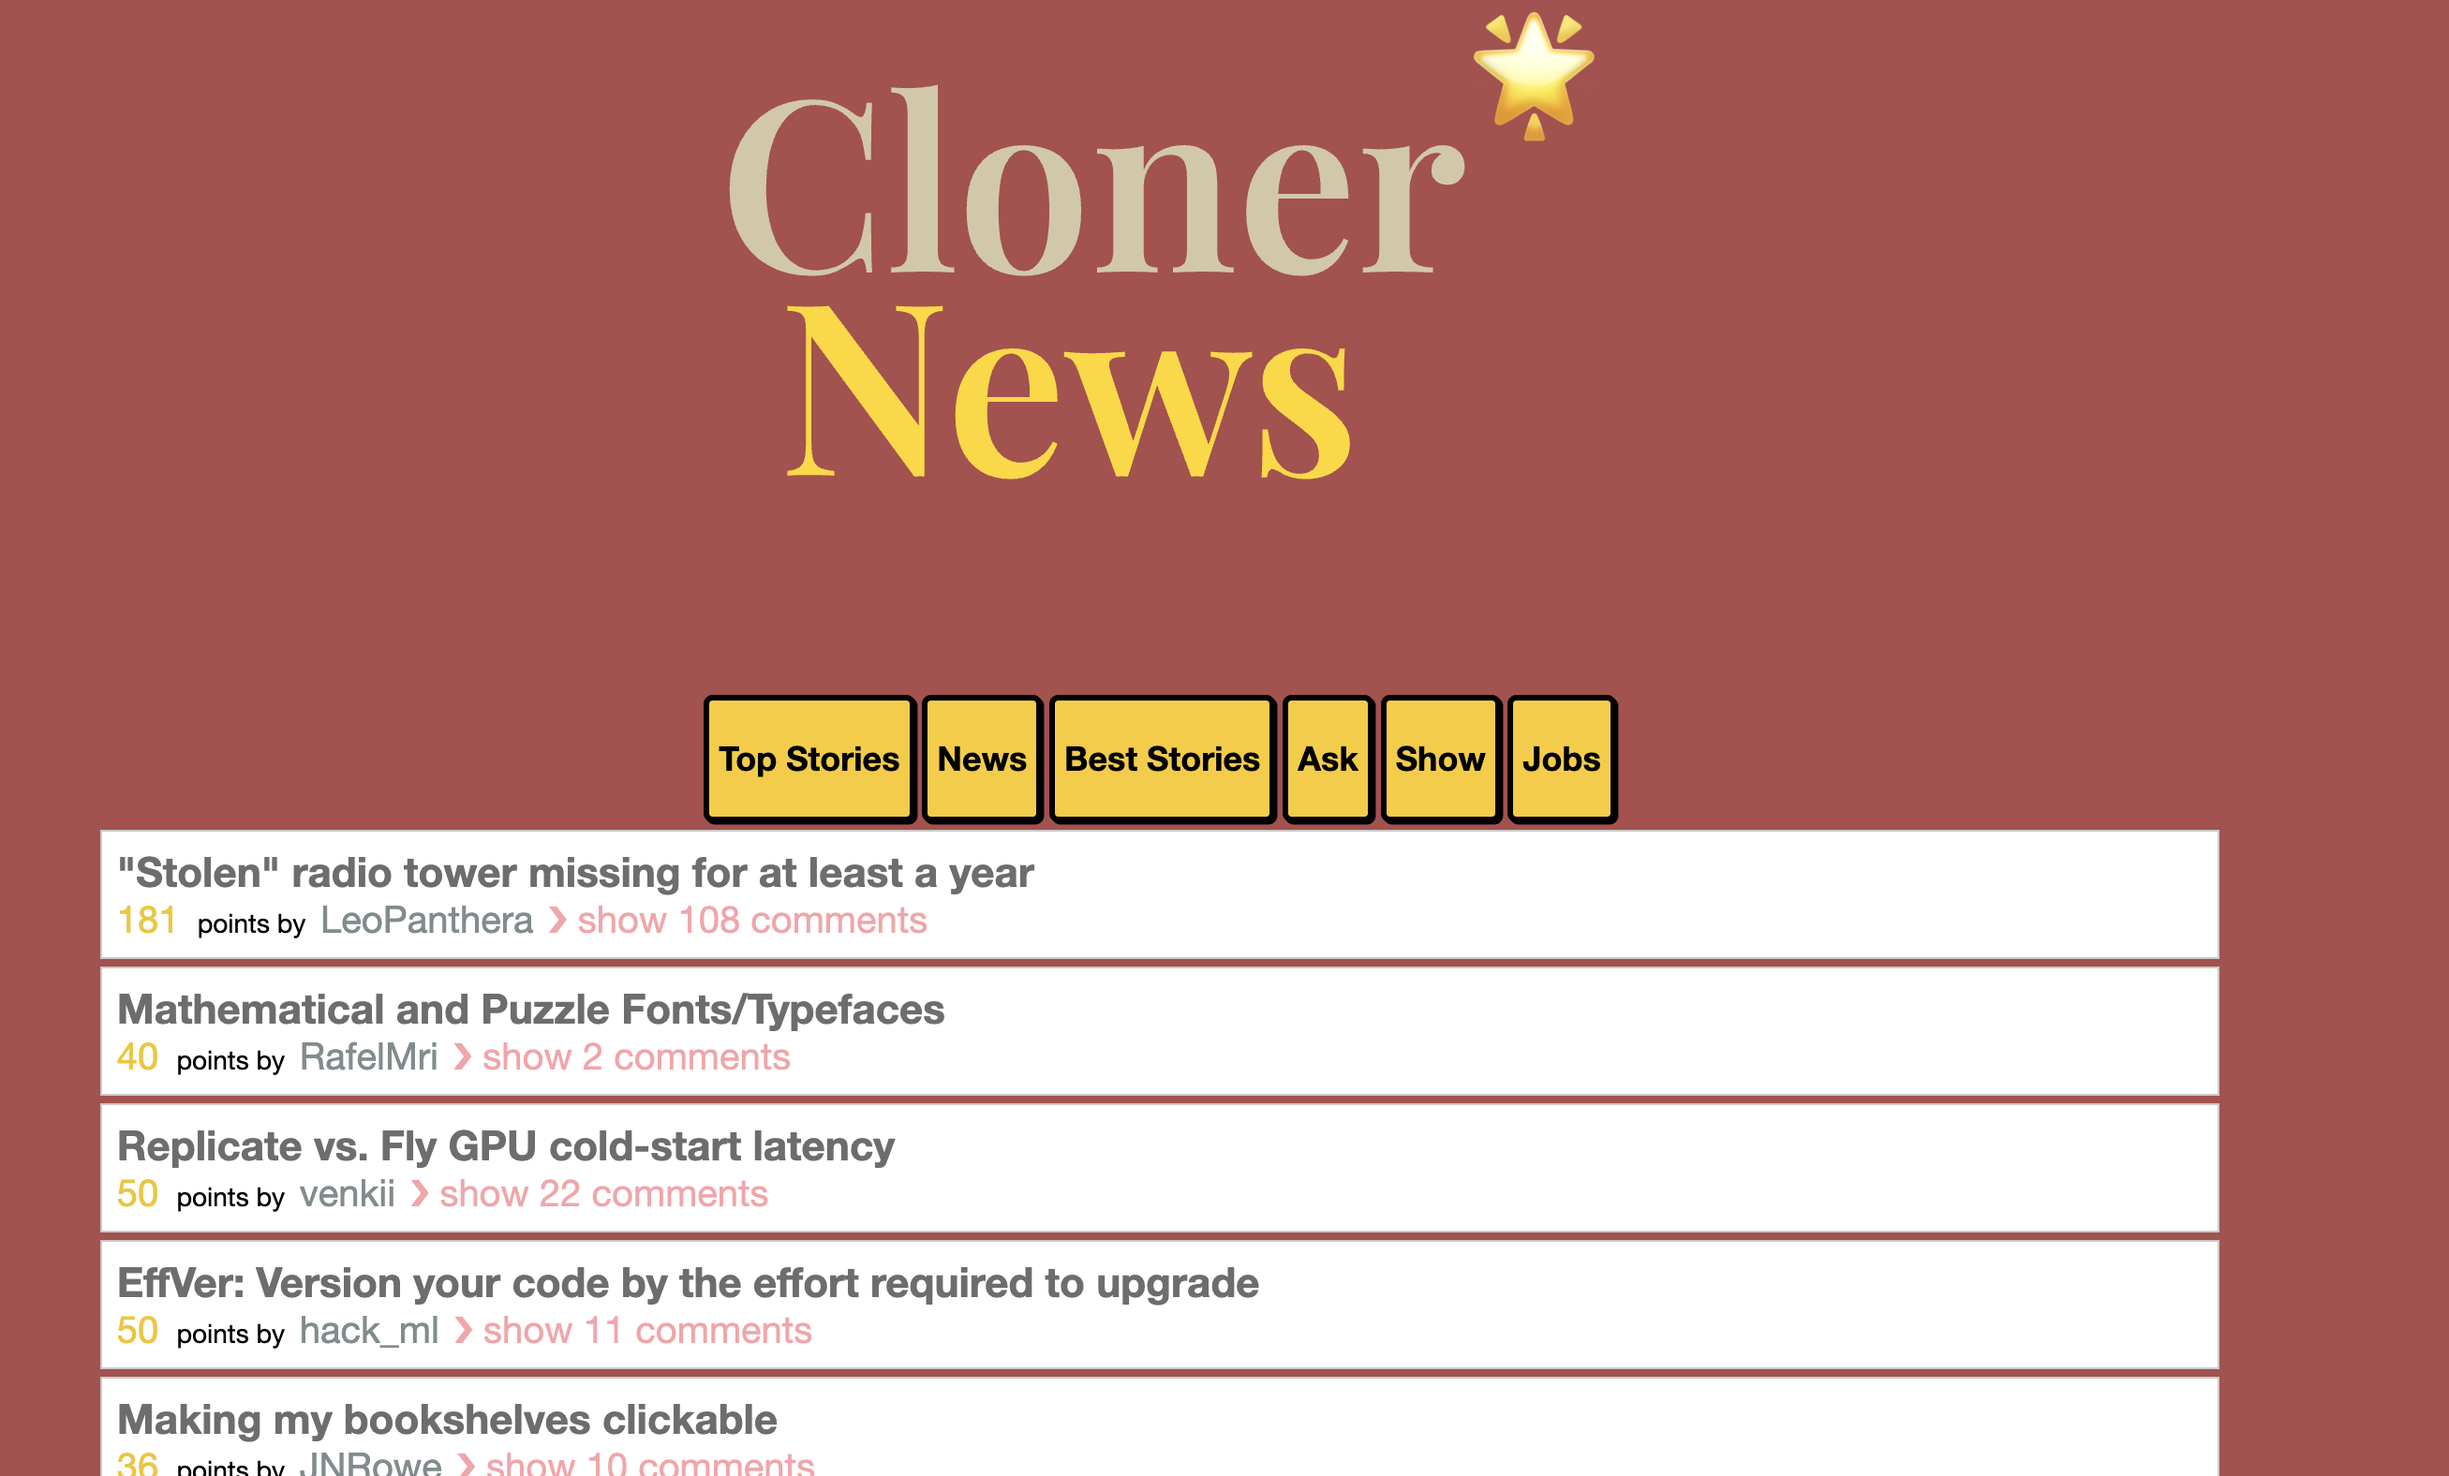
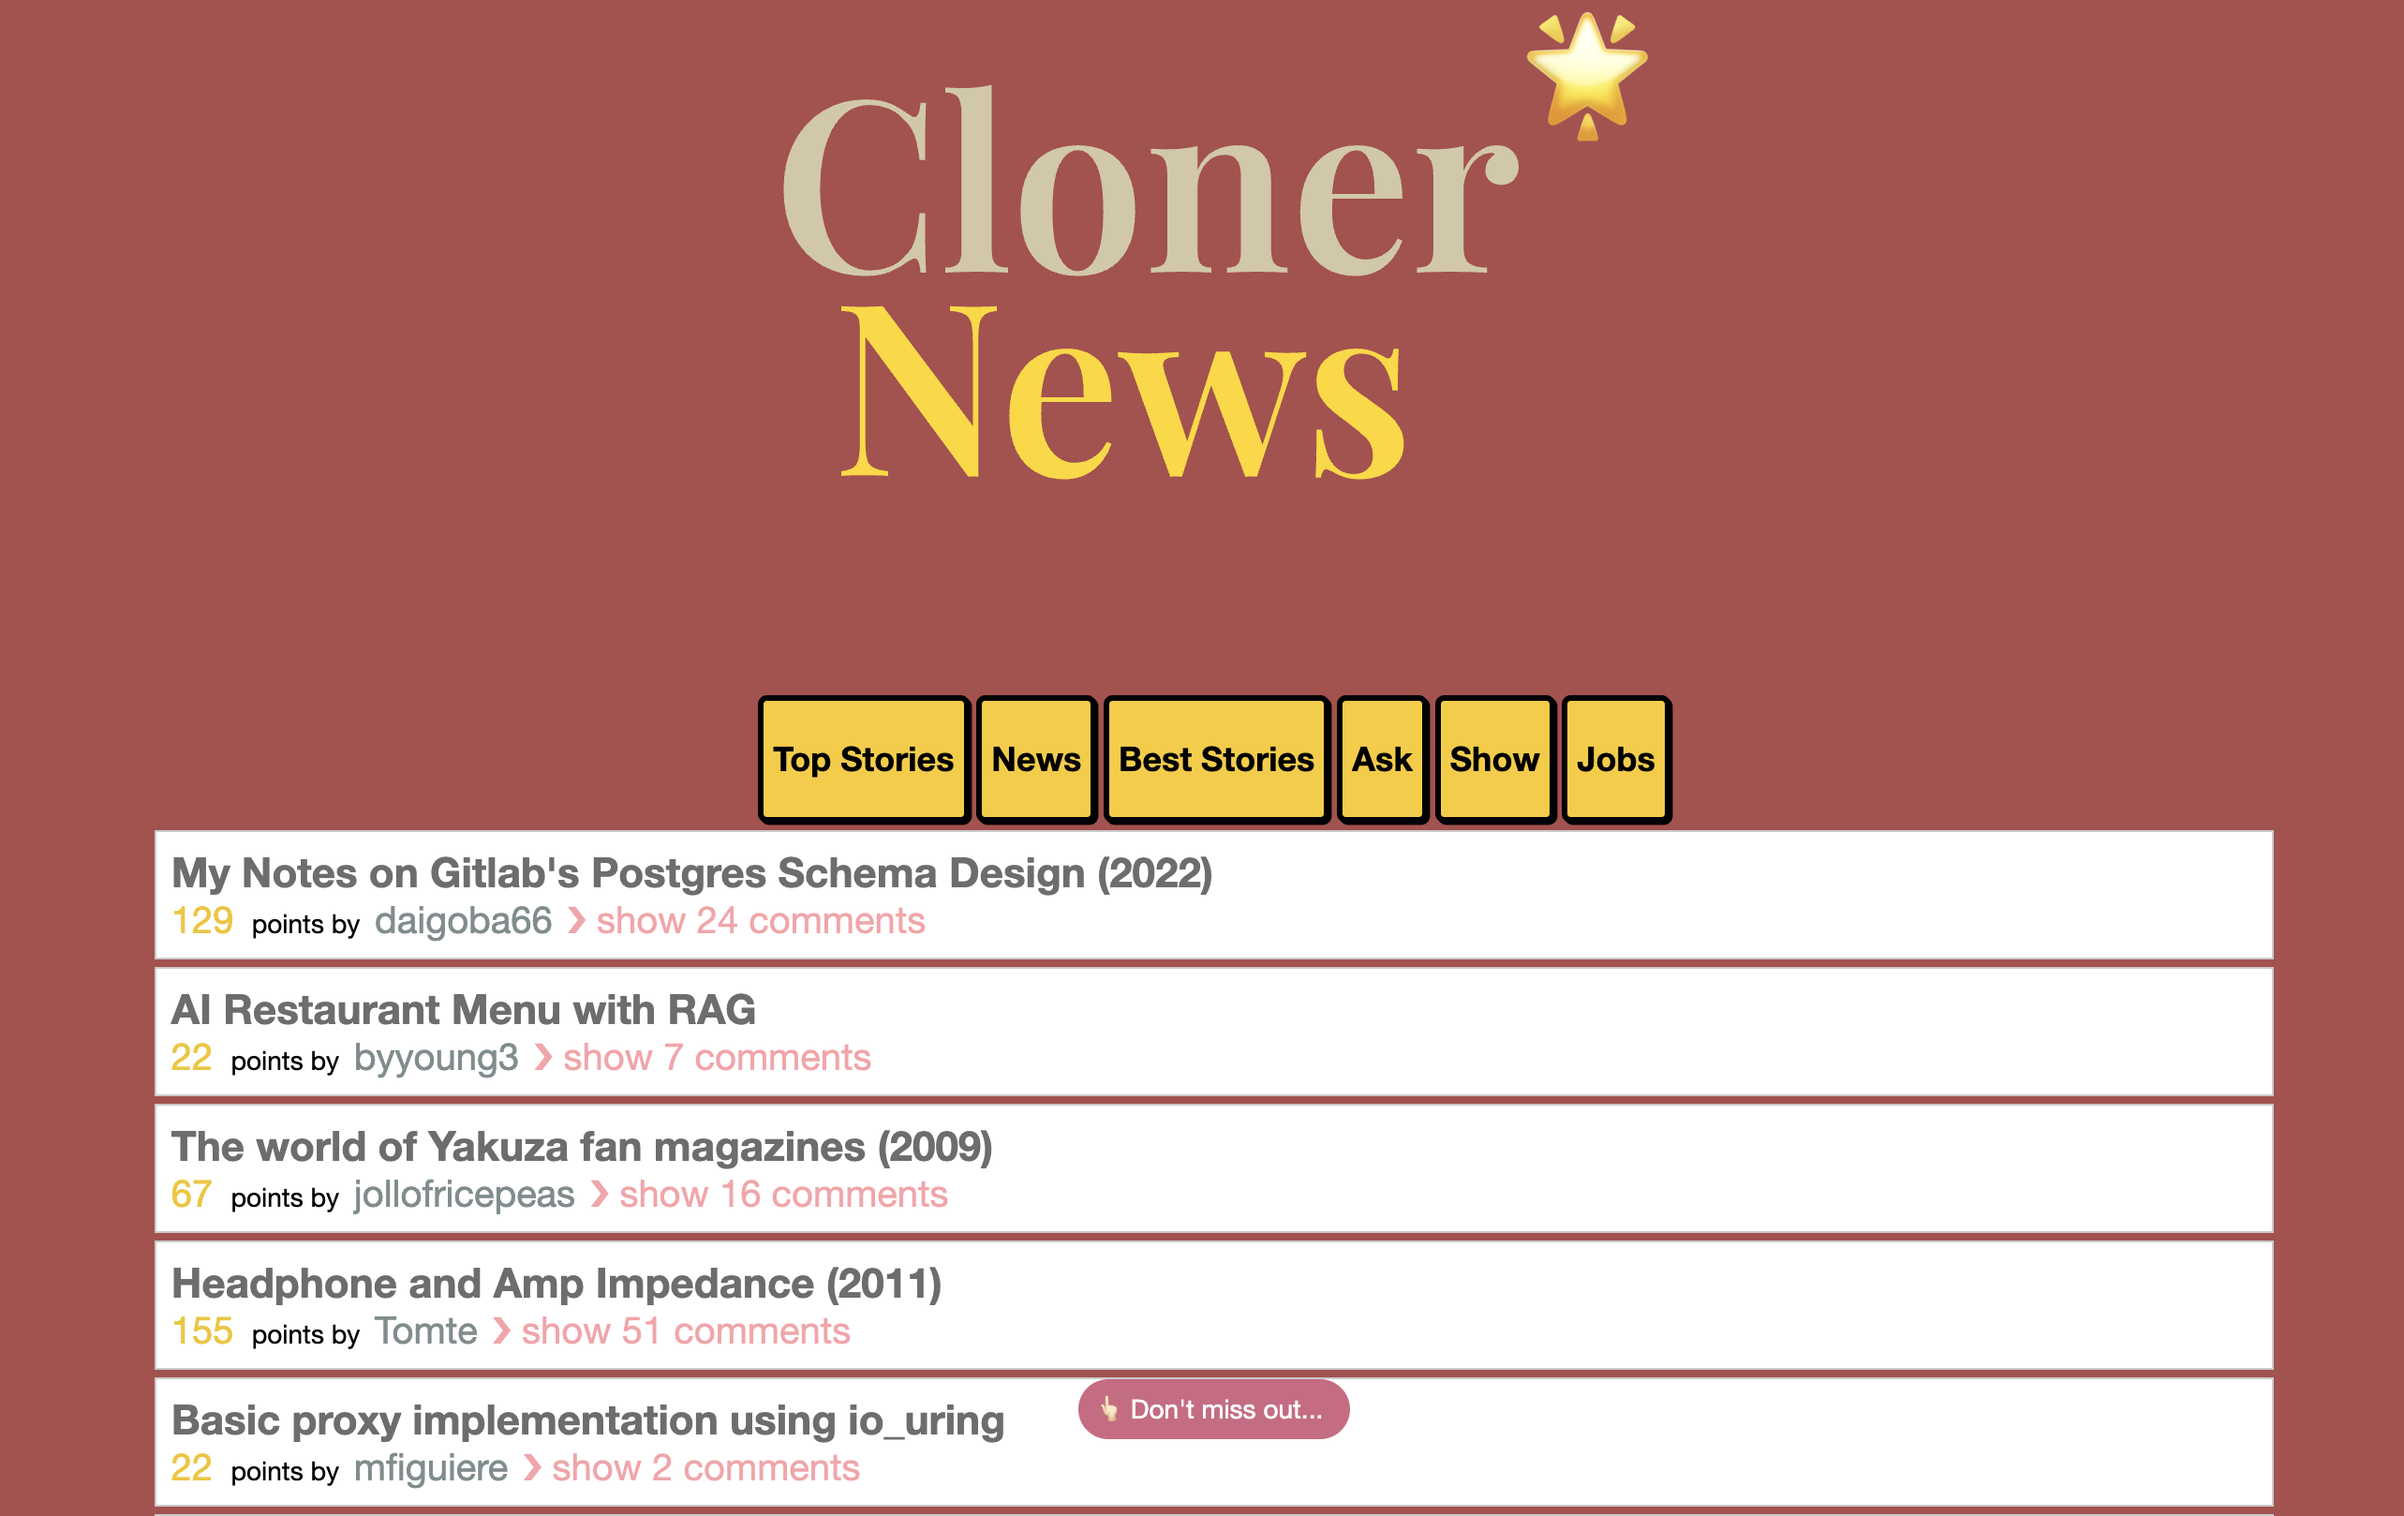
new image

Changed region(s): [[0.0312, 0.4353, 0.9665, 1.0], [0.2806, 0.0, 0.6859, 0.342]]

diff --git a/index.css b/index.css
@@ -360,7 +360,7 @@ h4 {
 }
 
 .toggle-comment {
-    color: rgba(251, 101, 30);
+    color: rgb(228, 89, 135);
     cursor: pointer;
 }
 
@@ -416,7 +416,7 @@ footer {
 
 .email {
     color: white;
-    background-color: rgba(251, 101, 30);
+    background-color: rgb(210, 103, 130);
     border-radius: 16px;
     height: 32px;
     overflow: hidden;

diff --git a/index.html b/index.html
@@ -56,7 +56,7 @@
     <!-- MODAL -->
 
 
-    <div class="container" style="display:none">
+    <div class="container" >
         <div class="email" onmouseover="this.classList.add('expand')" onmouseout="this.classList.remove('expand')">
             <div class="from">
                 <div class="from-contents">
